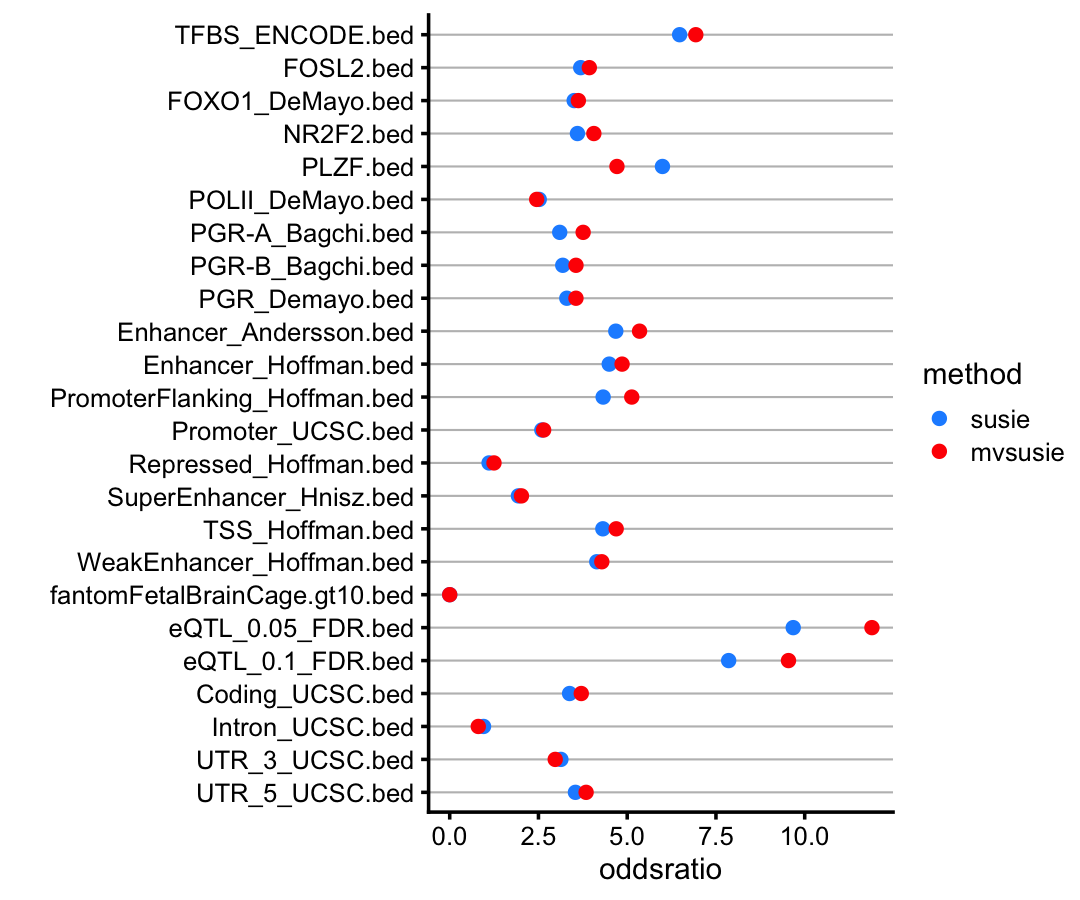
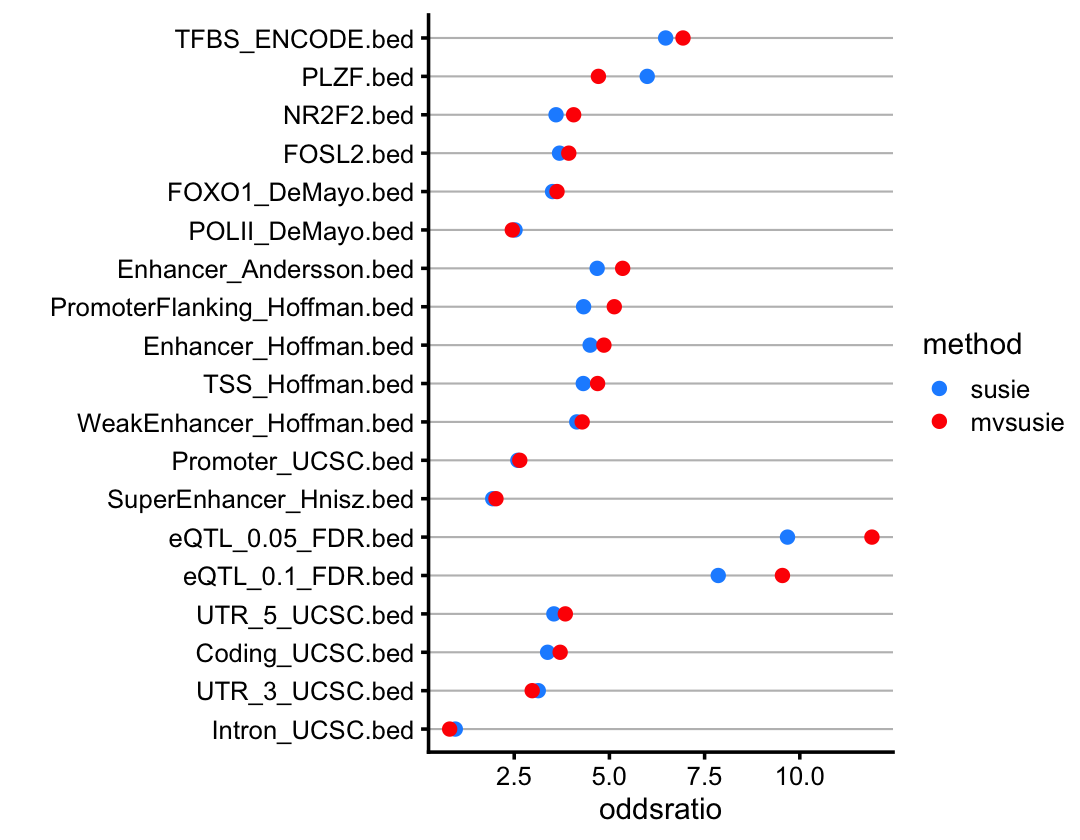
Revised plots in gregor.Rmd and added step to save main plot to an eps.

Changed region(s): [[0.0306, 0.031, 0.825, 0.9905], [0.8556, 0.4024, 0.9778, 0.5262]]

diff --git a/docs/gregor.html b/docs/gregor.html
@@ -188,18 +188,15 @@ library(cowplot)</code></pre>
 for.</p>
 <pre class="r"><code>annotations &lt;- list(
   &quot;transcription factor binding sites&quot; =
-    c(&quot;TFBS_ENCODE.bed&quot;,&quot;FOSL2.bed&quot;,&quot;FOXO1_DeMayo.bed&quot;,&quot;NR2F2.bed&quot;,
-      &quot;PLZF.bed&quot;,&quot;POLII_DeMayo.bed&quot;,&quot;PGR-A_Bagchi.bed&quot;,&quot;PGR-B_Bagchi.bed&quot;,
-      &quot;PGR_Demayo.bed&quot;),
+    c(&quot;TFBS_ENCODE.bed&quot;,&quot;FOSL2.bed&quot;,&quot;FOXO1_DeMayo.bed&quot;,
+      &quot;NR2F2.bed&quot;,&quot;PLZF.bed&quot;,&quot;POLII_DeMayo.bed&quot;),
   &quot;enhancer promoter regions&quot; =
     c(&quot;Enhancer_Andersson.bed&quot;,&quot;Enhancer_Hoffman.bed&quot;,
       &quot;PromoterFlanking_Hoffman.bed&quot;,&quot;Promoter_UCSC.bed&quot;,
-      &quot;Promoter_UCSC.hg38.bed&quot;,&quot;Repressed_Hoffman.bed&quot;,
-      &quot;SuperEnhancer_Hnisz.bed&quot;, &quot;TSS_Hoffman.bed&quot;,
-      &quot;WeakEnhancer_Hoffman.bed&quot;,&quot;fantomFetalBrainCage.gt10.bed&quot;,
-      &quot;fantomFetalBrainCage.eq0.bed&quot;),
+      &quot;SuperEnhancer_Hnisz.bed&quot;,&quot;TSS_Hoffman.bed&quot;,
+      &quot;WeakEnhancer_Hoffman.bed&quot;),
   &quot;eqtls data&quot; =
-    c(&quot;eQTL_0.05_FDR.bed&quot;,&quot;eQTL_0.1_FDR.bed&quot;,&quot;eur_ld_breakpoints.bed&quot;),
+    c(&quot;eQTL_0.05_FDR.bed&quot;,&quot;eQTL_0.1_FDR.bed&quot;),
   &quot;genomic structural elements&quot; =
     c(&quot;Coding_UCSC.bed&quot;,&quot;Intron_UCSC.bed&quot;,&quot;UTR_3_UCSC.bed&quot;,&quot;UTR_5_UCSC.bed&quot;))</code></pre>
 <p>Import the SuSiE-based and mvSuSiE-based enrichment results from the
@@ -230,7 +227,16 @@ for (trait in traits) {
           stringsAsFactors = FALSE))
 }</code></pre>
 <p>Prepare the data frame for ggplot2.</p>
-<pre class="r"><code>annotations &lt;- unlist(annotations)
+<pre class="r"><code>n &lt;- length(annotations)
+for (i in 1:n) {
+  x &lt;- subset(odds_ratios,
+              method == &quot;mvsusie&quot; &amp;
+              trait == &quot;crosstrait&quot; &amp;
+              is.element(bed,annotations[[i]]))
+  rows &lt;- order(x$oddsratio,decreasing = TRUE)
+  annotations[[i]] &lt;- x[rows,&quot;bed&quot;]
+}
+annotations &lt;- unlist(annotations)
 odds_ratios &lt;- subset(odds_ratios,is.element(bed,annotations))
 odds_ratios &lt;- transform(odds_ratios,
                          bed    = factor(bed,rev(annotations)),
@@ -238,23 +244,25 @@ odds_ratios &lt;- transform(odds_ratios,
                          method = factor(method,c(&quot;susie&quot;,&quot;mvsusie&quot;)))</code></pre>
 <p>This first plot shows the “cross-trait” SuSiE and mvSuSiE enrichment
 results:</p>
-<pre class="r"><code>ggplot(subset(odds_ratios,trait == &quot;crosstrait&quot;),
+<pre class="r"><code>p1 &lt;- ggplot(subset(odds_ratios,trait == &quot;crosstrait&quot;),
        aes(x = oddsratio,y = bed,color = method)) +
   geom_point() +
   scale_color_manual(values = c(&quot;dodgerblue&quot;,&quot;red&quot;)) +
   labs(y = &quot;&quot;) +
   theme_cowplot(font_size = 9) +
-  theme(panel.grid.major.y = element_line(color = &quot;gray&quot;,size = 0.3))</code></pre>
+  theme(panel.grid.major.y = element_line(color = &quot;gray&quot;,size = 0.3))
+p1</code></pre>
 <p><img src="gregor_files/figure-html/plot-crosstrait-1.png" width="540" style="display: block; margin: auto;" /></p>
 <p>Next we show the enrichment results for all traits:</p>
-<pre class="r"><code>ggplot(odds_ratios,aes(x = oddsratio,y = bed,color = method)) +
+<pre class="r"><code>p2 &lt;- ggplot(odds_ratios,aes(x = oddsratio,y = bed,color = method)) +
   geom_point() +
   scale_color_manual(values = c(&quot;dodgerblue&quot;,&quot;red&quot;)) +
   labs(y = &quot;&quot;) +
   theme_cowplot(font_size = 7) +
   facet_wrap(vars(trait)) +
   theme(strip.background = element_blank(),
-        panel.grid.major.y = element_line(color = &quot;gray&quot;,size = 0.3))</code></pre>
+        panel.grid.major.y = element_line(color = &quot;gray&quot;,size = 0.3))
+p2</code></pre>
 <p><img src="gregor_files/figure-html/plot-all-traits-1.png" width="960" style="display: block; margin: auto;" /></p>
 
 
